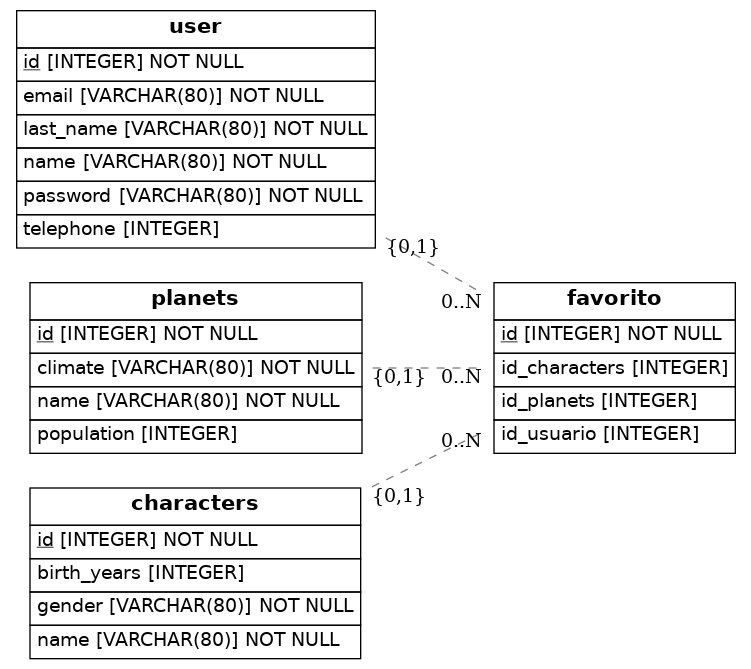
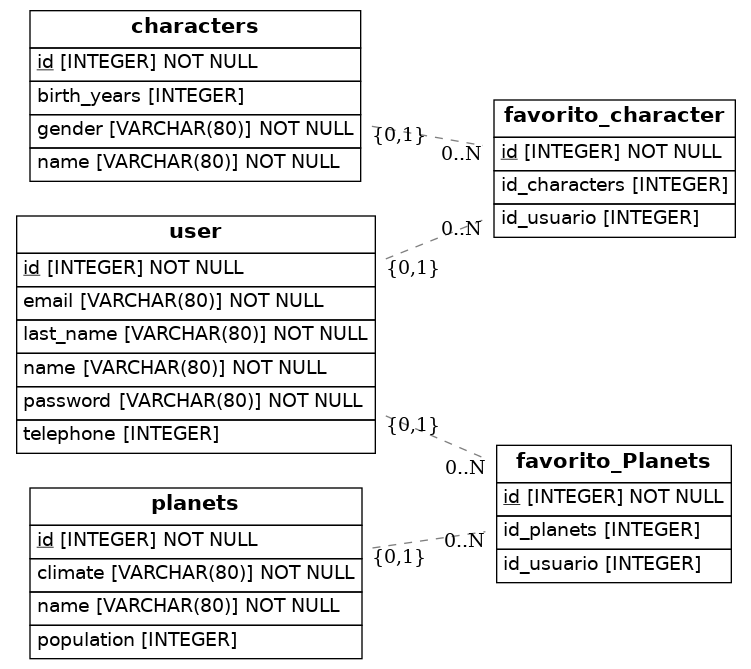
se crea tabla favorito planets

diff --git a/src/models.py b/src/models.py
@@ -19,18 +19,22 @@ class User(Base):
     email= Column(String(80), nullable=False)
     password = Column(String(80), nullable=False)
 
-class Favorito(Base):
-    __tablename__ = 'favorito'
+class Favorito_Character(Base):
+    __tablename__ = 'favorito_character'
+    # Here we define columns for the table address.
+    # Notice that each column is also a normal Python instance attribute.
+    id = Column(Integer, primary_key=True)
+    id_usuario = Column(Integer,ForeignKey('user.id'))
+    id_characters=Column(Integer,ForeignKey('characters.id'))
+    
+class Favorito_Planets(Base):
+    __tablename__ = 'favorito_Planets'
     # Here we define columns for the table address.
     # Notice that each column is also a normal Python instance attribute.
     id = Column(Integer, primary_key=True)
     id_usuario = Column(Integer,ForeignKey('user.id'))
     id_planets= Column(Integer,ForeignKey('planets.id'))
-    id_characters=Column(Integer,ForeignKey('characters.id'))
     
-   # person_id = Column(Integer, ForeignKey('person.id'))
-    #person = relationship(Person)
-
 class Planets(Base):
     __tablename__ = 'planets'
     id = Column(Integer, primary_key=True)
